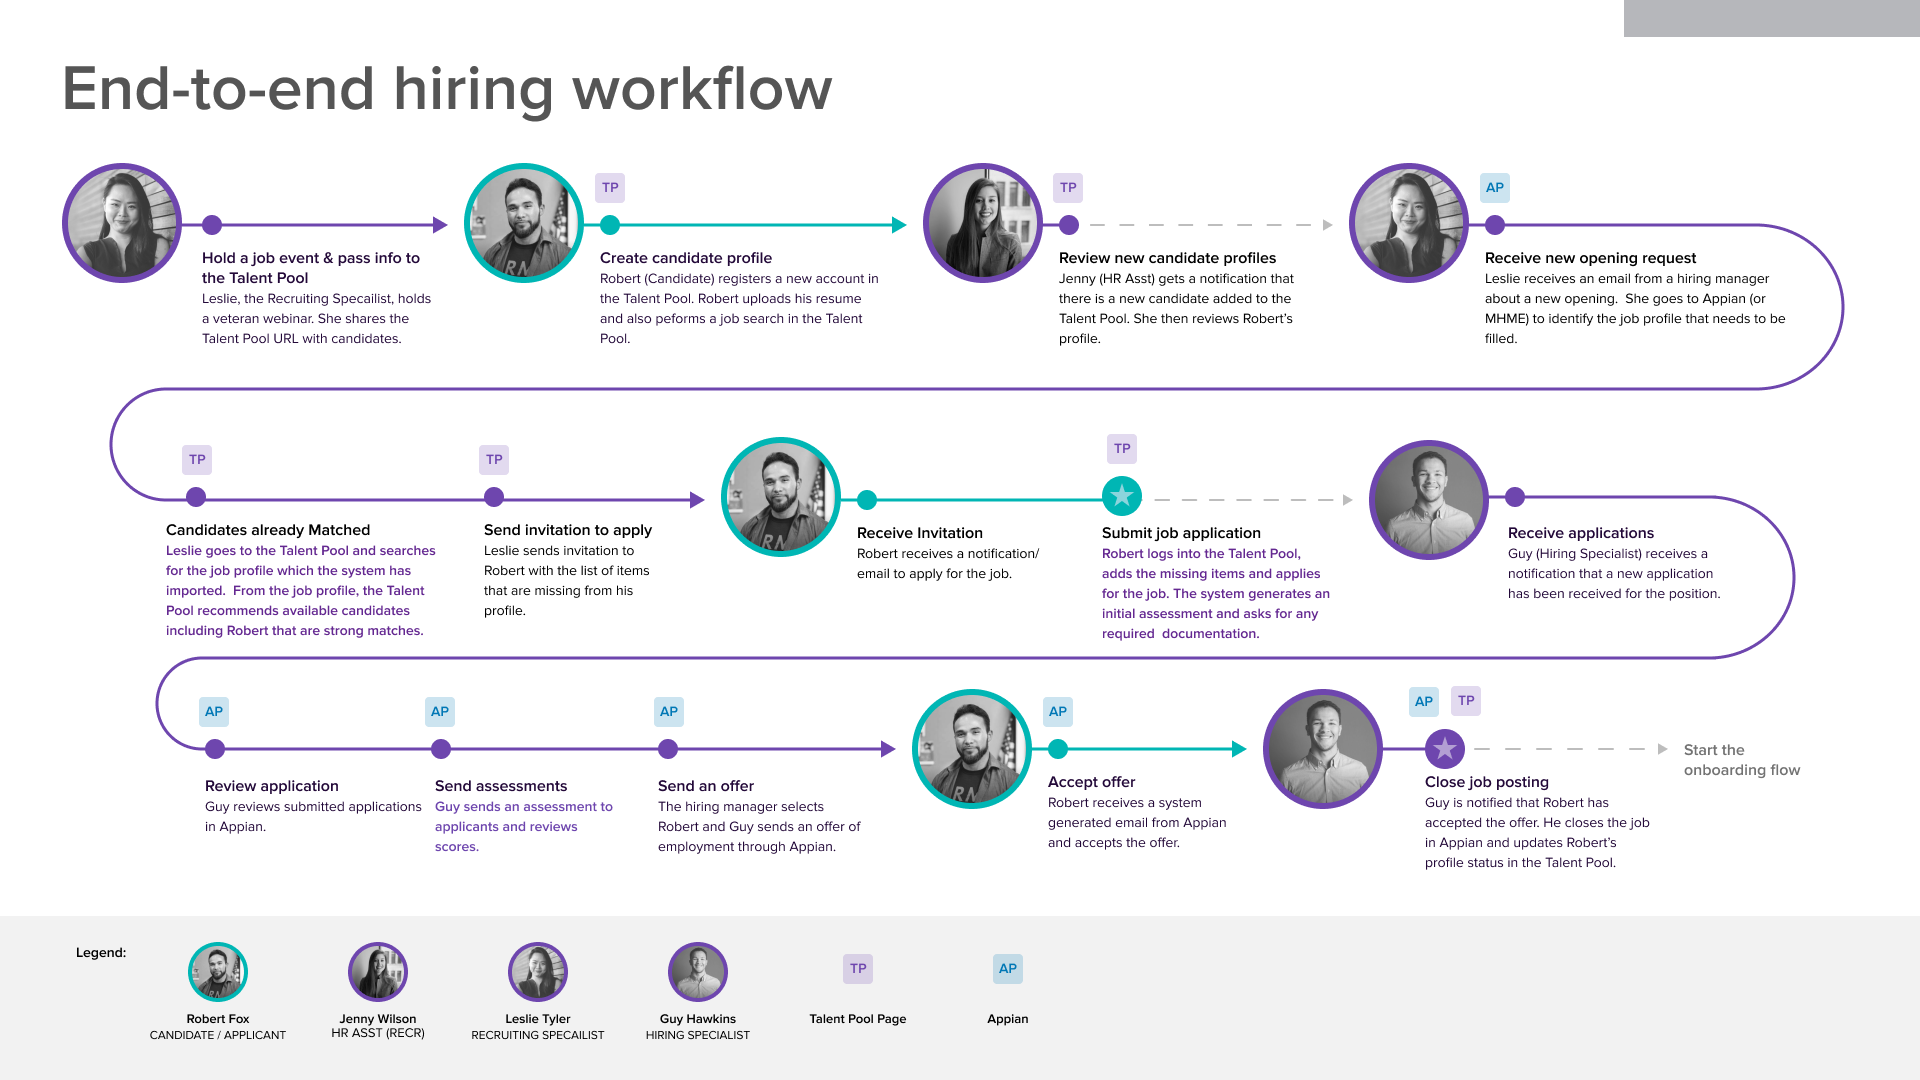
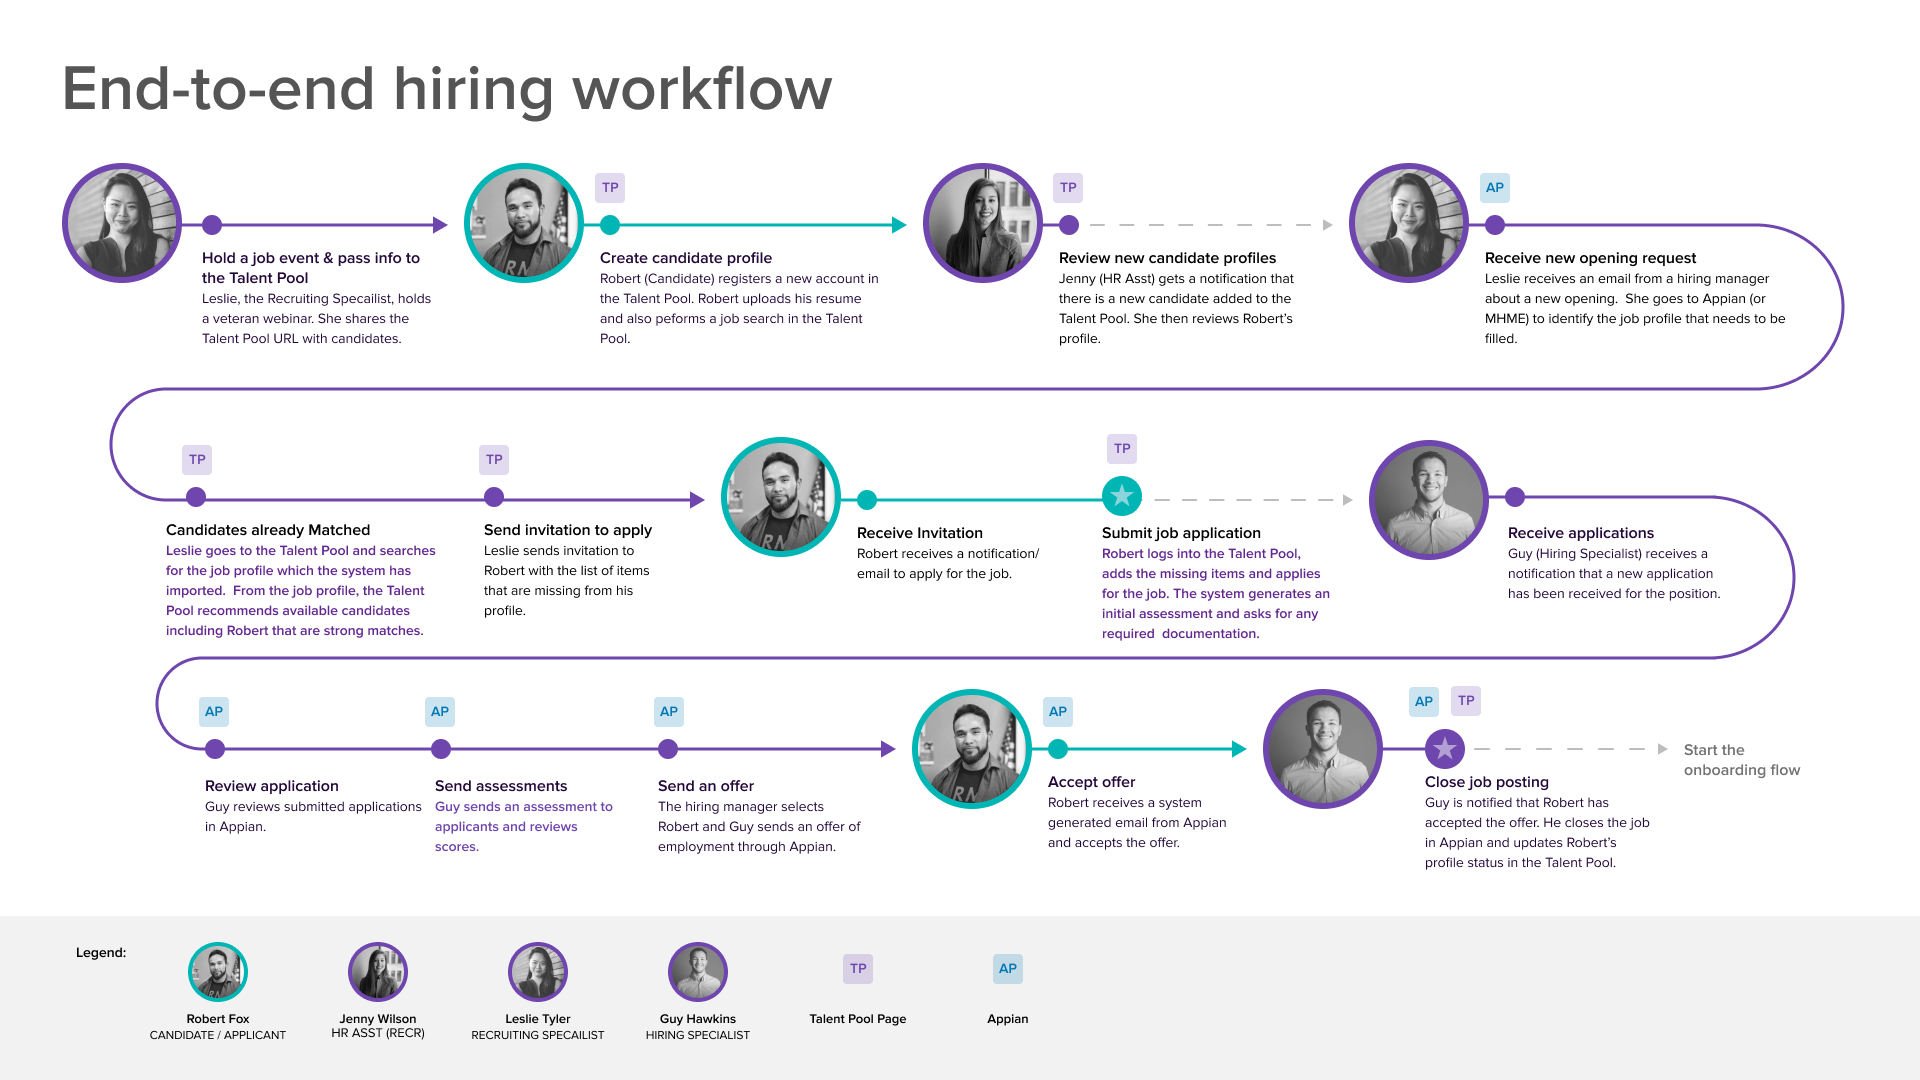
Update Talent Intelligence case study hero, images, and caption alignment
Adds the hero pills (white background), left-aligns and widens the
Hiring Workflow diagram and the side-by-side Monster website figure to
match the site's standard image column, and left-aligns RevealFigure
captions with their image (fixes the shared component's stray 12px
caption padding, which this page's other figures also depend on).
Includes the updated flow.png asset.

Changed region(s): [[0.8438, 0.0, 1.0, 0.0611]]

diff --git a/app/case-studies/monster-talent/page.tsx b/app/case-studies/monster-talent/page.tsx
@@ -38,15 +38,6 @@ import { getCaseStudyNav } from "../../_components/case-study-order";
  * Known minor deltas vs. the pre-refactor pixel output, all a consequence
  * of the shared components being read-only (not modifiable as part of this
  * refactor):
- * - CaseHero always renders a pills row, but this page's hero has no pills
- *   in the source. An empty array is passed; the resulting empty row's
- *   top margin adds a small amount of extra vertical space in the hero
- *   that the original markup didn't have.
- * - RevealFigure's figcaption always includes 12px of left padding
- *   (matching the `.reveal-img` figcaption convention from case studies
- *   that do use the reveal script). This page's own `.case-visual`
- *   figcaptions had no left padding in the source CSS, so captions here
- *   sit ~12px further right than before.
  * - PrimaryNav renders a translucent `bg-white/95` nav background. This
  *   page's own nav override forced a fully opaque background
  *   (`var(--paper)`, no transparency). PrimaryNav has no background/
@@ -122,7 +113,8 @@ export default function PortfolioImportMonsterTalentPage() {
               architecture, interaction model, and shared experience patterns.
             </>
           }
-          pills={[]}
+          pills={["Enterprise Recruiting", "Platform Design", "Design Systems", "Cross-Functional Collaboration"]}
+          pillBackground="#FFFFFF"
           meta={[
             { label: "Role", value: "Lead UX Designer" },
             { label: "Domain", value: "Public Sector / GovTech" },
@@ -146,17 +138,23 @@ export default function PortfolioImportMonsterTalentPage() {
             define platform responsibilities, automated handoffs, and technical boundaries.
           </p>
 
-          <RevealFigure
-            src="/portfolio-import/images/monster/flow.png"
-            alt="Diagram showing recruiter roles, candidates, Talent Pool, Appian, and automated handoffs"
-            imgClassName="max-w-[800px]"
-            caption={
-              <>
-                <strong>System Alignment:</strong> Mapped roles, handoffs, and system boundaries before
-                defining the product experience.
-              </>
-            }
-          />
+          {/* Not RevealFigure: its figure is mx-auto (center-aligned), but
+              this image needs to sit flush with the main content column
+              at roughly the same width as the site's other standard
+              case-study images, not centered at a narrower width. Same
+              visual treatment (border/radius/bg, caption typography)
+              reproduced directly instead. */}
+          <figure className="mt-15 max-w-full">
+            <img
+              src="/portfolio-import/images/monster/flow.png"
+              alt="Diagram showing recruiter roles, candidates, Talent Pool, Appian, and automated handoffs"
+              className="block h-auto w-full max-w-[1100px] rounded-sm border border-[#E0E0E0] bg-white"
+            />
+            <figcaption className="mt-3 mb-16 max-w-[1100px] text-sm leading-normal text-[#64748B] [&_strong]:font-bold [&_strong]:text-[#334155]">
+              <strong>System Alignment:</strong> Mapped roles, handoffs, and system boundaries before
+              defining the product experience.
+            </figcaption>
+          </figure>
         </CaseSection>
 
         <CaseSection id="data-intake" heading="Fix messy data before it entered the system." tone="paper">
@@ -247,7 +245,7 @@ export default function PortfolioImportMonsterTalentPage() {
             Monster ecosystem.
           </p>
 
-          <figure className="mx-auto mt-6 w-full max-w-[1100px] px-5 sm:px-8">
+          <figure className="mt-6 w-full max-w-[1100px] px-5 sm:px-8">
             <div className="grid grid-cols-1 gap-8 md:grid-cols-2">
               <img
                 src="/portfolio-import/images/monster/monster-com.png"

diff --git a/app/_components/reveal-figure.tsx b/app/_components/reveal-figure.tsx
@@ -38,7 +38,7 @@ export function RevealFigure({
         alt={alt}
         className={cn("block h-auto w-auto max-w-full rounded-sm border border-[#E0E0E0] bg-white", imgClassName)}
       />
-      <figcaption className="table-caption caption-bottom mt-3 mb-16 pl-3 text-sm leading-normal text-[#64748B] [&_strong]:font-bold [&_strong]:text-[#334155]">
+      <figcaption className="table-caption caption-bottom mt-3 mb-16 text-sm leading-normal text-[#64748B] [&_strong]:font-bold [&_strong]:text-[#334155]">
         {caption}
       </figcaption>
     </figure>
